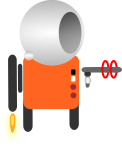
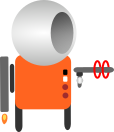
shoots bullets backwards

Changed region(s): [[0.0, 0.0, 1.0, 1.0], [0.1053, 0.0, 0.3684, 0.2121]]

diff --git a/js/game.js b/js/game.js
@@ -18,10 +18,10 @@ function create() {
     game.physics.startSystem(Phaser.Physics.P2JS);
 
     game.physics.p2.gravity.y = 100;
-
     //  Add a sprite
-    player = game.add.sprite(122, 148, 'astronot');
+    player = game.add.sprite(114, 132, 'astronot');
     game.physics.p2.enable(player);
+    player.body.bounce = .2;
 
     var spriteMaterial = game.physics.p2.createMaterial('spriteMaterial', player.body);
 
@@ -31,8 +31,9 @@ function create() {
 
     contactMaterial.friction = 0.3;
     contactMaterial.restitution = 1.0;
-
+    contactMaterial.maxAngular = 0;
     contactMaterial.stiffness = 1e7;
+    contactMaterial.bounce = .3;
     contactMaterial.relaxation = 3;
     contactMaterial.frictionStiffness = 1e7;
     contactMaterial.frictionRelaxation = 3;
@@ -54,17 +55,16 @@ function create() {
 function update() {
 
     if (cursors.left.isDown) {
-        player.body.moveLeft(200);
+        player.body.moveLeft(100);
         player.scale.x = -1;
     } else if (cursors.right.isDown) {
-        player.body.moveRight(200);
+        player.body.move
+        player.body.moveRight(100);
         player.scale.x = 1;
     }
 
     if (cursors.up.isDown) {
-        player.body.moveUp(200);
-    } else if (cursors.down.isDown) {
-        player.body.moveDown(200);
+        player.body.moveUp(50);
     }
 
     if( fireButton.isDown) {
@@ -81,7 +81,7 @@ function fire () {
 
         if (bullet)
         {
-            bullet.reset(player.x+75*player.scale.x , player.y );
+            bullet.reset(player.x+70*player.scale.x , player.y );
             bullet.body.velocity.x = 400 * player.scale.x;
             bulletTime = game.time.now + 200;
         }
